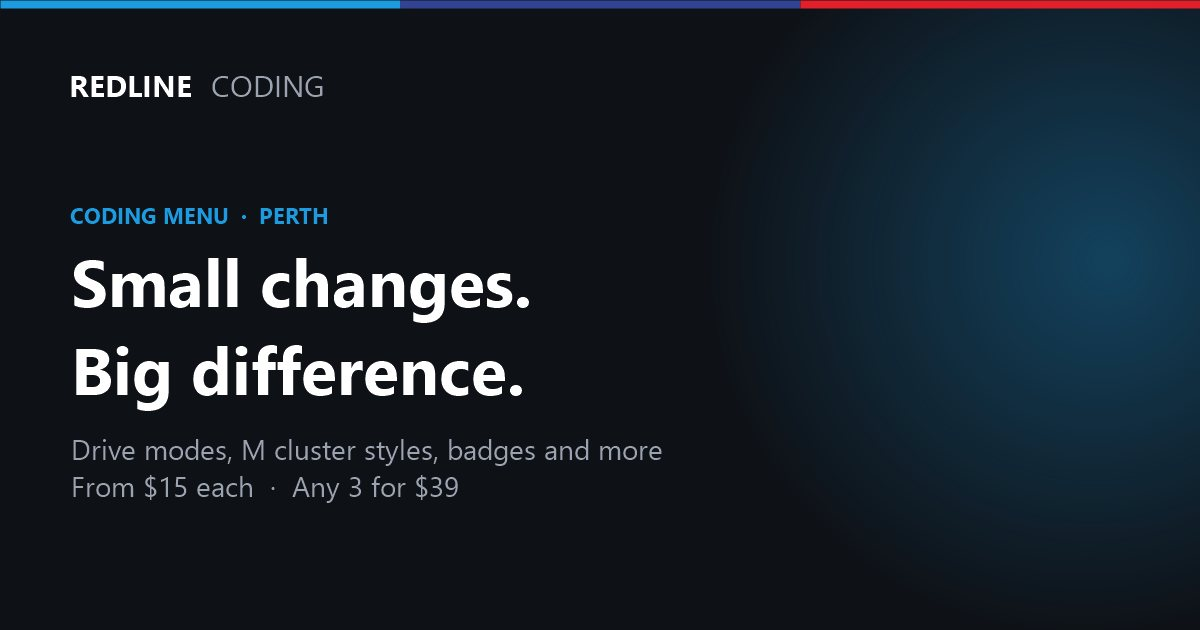
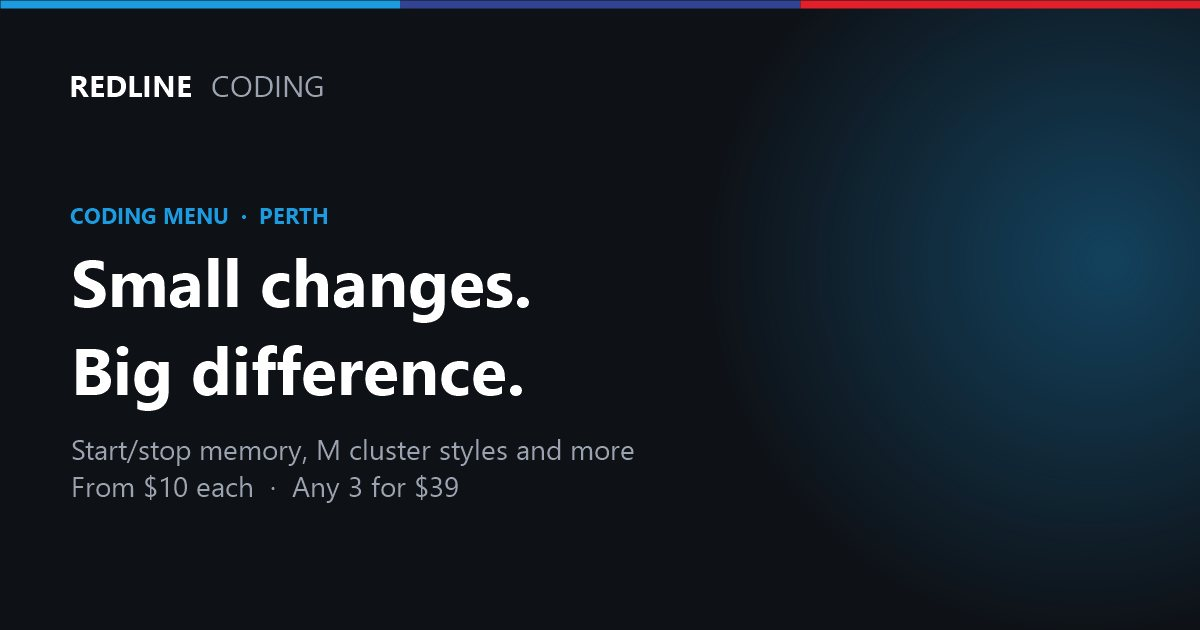
Coding Menu: add auto start/stop memory, comfort blink, skip disclaimers, iDrive start-up animation; all 10 for $99

Changed region(s): [[0.0617, 0.6937, 0.555, 0.7841]]

diff --git a/coding-menu.html b/coding-menu.html
@@ -4,16 +4,16 @@
 <meta charset="UTF-8">
 <meta name="viewport" content="width=device-width, initial-scale=1">
 <title>BMW Coding Menu Perth | Redline Coding</title>
-<meta name="description" content="Popular BMW coding features in Perth from $15 each: Sport Plus and Comfort Plus modes, M and Alpina cluster styles, start-up badges, brake force display, Assisted Driving View and Speed Limit Assist. Any 3 for $39.">
+<meta name="description" content="Popular BMW coding features in Perth from $10 each: auto start/stop memory, comfort blink, Sport Plus and Comfort Plus modes, M and Alpina cluster styles, start-up badges, brake force display, Assisted Driving View and Speed Limit Assist. Any 3 for $39.">
 <meta property="og:title" content="BMW Coding Menu Perth | Redline Coding">
-<meta property="og:description" content="Drive modes, M cluster styles, start-up badges, brake force display and more. From $15 each, any 3 for $39.">
+<meta property="og:description" content="Start/stop memory, comfort blink, drive modes, M cluster styles, start-up badges and more. From $10 each, any 3 for $39.">
 <meta property="og:type" content="website">
 <meta property="og:url" content="https://dante1243.github.io/redline-coding/coding-menu.html">
 <meta property="og:site_name" content="Redline Coding">
 <meta property="og:image" content="https://dante1243.github.io/redline-coding/media/og-coding-menu.jpg">
 <meta property="og:image:width" content="1200">
 <meta property="og:image:height" content="630">
-<meta property="og:image:alt" content="Redline Coding: BMW coding menu, from $15 each.">
+<meta property="og:image:alt" content="Redline Coding: BMW coding menu, from $10 each.">
 <meta name="twitter:card" content="summary_large_image">
 <meta name="theme-color" content="#0e1116">
 <link rel="preconnect" href="https://fonts.googleapis.com">
@@ -34,15 +34,15 @@
   <div class="wrap">
     <p class="eyebrow">Coding menu · Perth</p>
     <h1>Small changes. Big difference.</h1>
-    <p class="lede">Popular BMW features, <strong>from $15 each</strong> and done in minutes. Pick what you want, see your price straight away, and we'll do them all in one visit. Add them to a remote start or heated seats booking and it's the same trip.</p>
+    <p class="lede">Popular BMW features, <strong>from $10 each</strong> and done in minutes. Pick what you want, see your price straight away, and we'll do them all in one visit. Add them to a remote start or heated seats booking and it's the same trip.</p>
     <div class="cta-row">
       <a class="btn btn-primary" href="#menu-section">See the menu</a>
       <a class="btn btn-ghost" href="enquire.html" data-quote>Get a quote</a>
     </div>
     <dl class="facts">
-      <div><dt>From $15</dt><dd>Per feature</dd></div>
+      <div><dt>From $10</dt><dd>Per feature</dd></div>
       <div><dt>Any 3 for $39</dt><dd>Mix and match</dd></div>
-      <div><dt>All 6 for $79</dt><dd>The full menu</dd></div>
+      <div><dt>All 10 for $99</dt><dd>The full menu</dd></div>
       <div><dt>No fix, no fee</dt><dd>Pay only once it works</dd></div>
     </dl>
     <p class="hero-note">Independent coding service. Not affiliated with BMW AG.</p>
@@ -78,7 +78,7 @@
       </details>
       <details>
         <summary>How do the deals work?</summary>
-        <p>Pick any 3 features and your three most expensive picks cost $39 together. Anything extra is at its normal price. Take all 6 and it's $79. The page works out the best price for you automatically.</p>
+        <p>Pick any 3 features and your three most expensive picks cost $39 together. Anything extra is at its normal price. Take all 10 and it's $99. The page works out the best price for you automatically.</p>
       </details>
       <details>
         <summary>Can I add these to a remote start or heated seats booking?</summary>

diff --git a/services.js b/services.js
@@ -37,9 +37,9 @@ const SERVICES = {
   },
   "coding-menu": {
     name: "Coding Menu",
-    short: "Extra drive modes, M cluster styles, start-up badges, brake force display and more. Pick what you want from $15 each.",
+    short: "Auto start/stop memory, comfort blink, extra drive modes, M cluster styles, start-up badges and more. Pick what you want from $10 each.",
     page: "coding-menu.html",
-    price: 15,
+    price: 10,
     time: "~5 min each",
     icon: "dial",
     checks: ["build"],
@@ -52,6 +52,12 @@ const SERVICES = {
 
 // Coding Menu features. Prices are per feature; MENU_DEALS below discounts multiple picks.
 const FEATURES = [
+  { id: "start-stop", group: "Comfort", name: "Auto start/stop memory", price: 15, icon: "power",
+    desc: "The car remembers when you switch engine auto start/stop off, so you don't have to press the button every time you drive." },
+  { id: "comfort-blink", group: "Comfort", name: "Comfort blink (3 → 5 flashes)", price: 10, icon: "blink",
+    desc: "One tap of the indicator stalk flashes 5 times instead of 3. Handy for lane changes on the freeway." },
+  { id: "disclaimers", group: "Comfort", name: "Skip start-up legal disclaimers", price: 10, icon: "screen",
+    desc: "Removes the legal disclaimer pop-ups you have to click through on iDrive every time you start the car." },
   { id: "drive-modes", group: "Driving", name: "Sport Plus & Comfort Plus modes", price: 15, icon: "dial",
     desc: "Adds Sport Plus and Comfort Plus to your drive mode button, for a sharper or softer drive than the standard modes." },
   { id: "adv", group: "Driving", name: "Assisted Driving View", price: 25, icon: "lanes",
@@ -68,10 +74,12 @@ const FEATURES = [
   { id: "badge", group: "Style", name: "M or high-trim start-up badge", price: 15, icon: "badge",
     desc: "Show an M, M4 CS, X3 M, X7 M or other badge on the cluster when you start the car.",
     note: "Purely cosmetic, and we can remove it any time, e.g. before you sell the car." },
+  { id: "idrive-startup", group: "Style", name: "iDrive start-up animation", price: 15, icon: "badge",
+    desc: "Change the animation on the iDrive screen when you start the car, for example the BMW M logo." },
 ];
 
 // Multi-feature deals: the best price is used automatically.
-const MENU_DEALS = { three: 39, all: 79 };
+const MENU_DEALS = { three: 39, all: 99 };
 
 const ICONS = {
   fob: '<svg viewBox="0 0 24 24"><rect x="7" y="2.5" width="10" height="19" rx="3"/><circle cx="12" cy="8" r="1.6"/><path d="M10 13.5h4M10 16.5h4"/></svg>',
@@ -84,5 +92,7 @@ const ICONS = {
   lanes: '<svg viewBox="0 0 24 24"><path d="M8 3 5 21M16 3l3 18M12 4v3M12 10.5v3M12 17v3"/></svg>',
   brake: '<svg viewBox="0 0 24 24"><circle cx="12" cy="12" r="6"/><path d="M12 9v3.5M12 15h.01"/><path d="M4.5 7.5a9 9 0 0 0 0 9M19.5 7.5a9 9 0 0 1 0 9"/></svg>',
   badge: '<svg viewBox="0 0 24 24"><path d="M12 3l7 3v5c0 4.5-3 8-7 10-4-2-7-5.5-7-10V6z"/><path d="M9 10v4.5M12 10v4.5M15 10v4.5"/></svg>',
+  power: '<svg viewBox="0 0 24 24"><path d="M12 3v8"/><path d="M7 6.5a7 7 0 1 0 10 0"/></svg>',
+  blink: '<svg viewBox="0 0 24 24"><path d="M4 12h11"/><path d="m11 7 5 5-5 5"/><path d="M19 7v10"/></svg>',
   chat: '<svg viewBox="0 0 24 24"><path d="M4 5h16v11H9l-5 4z"/><path d="M8 9.5h8M8 12.5h5"/></svg>',
 };
